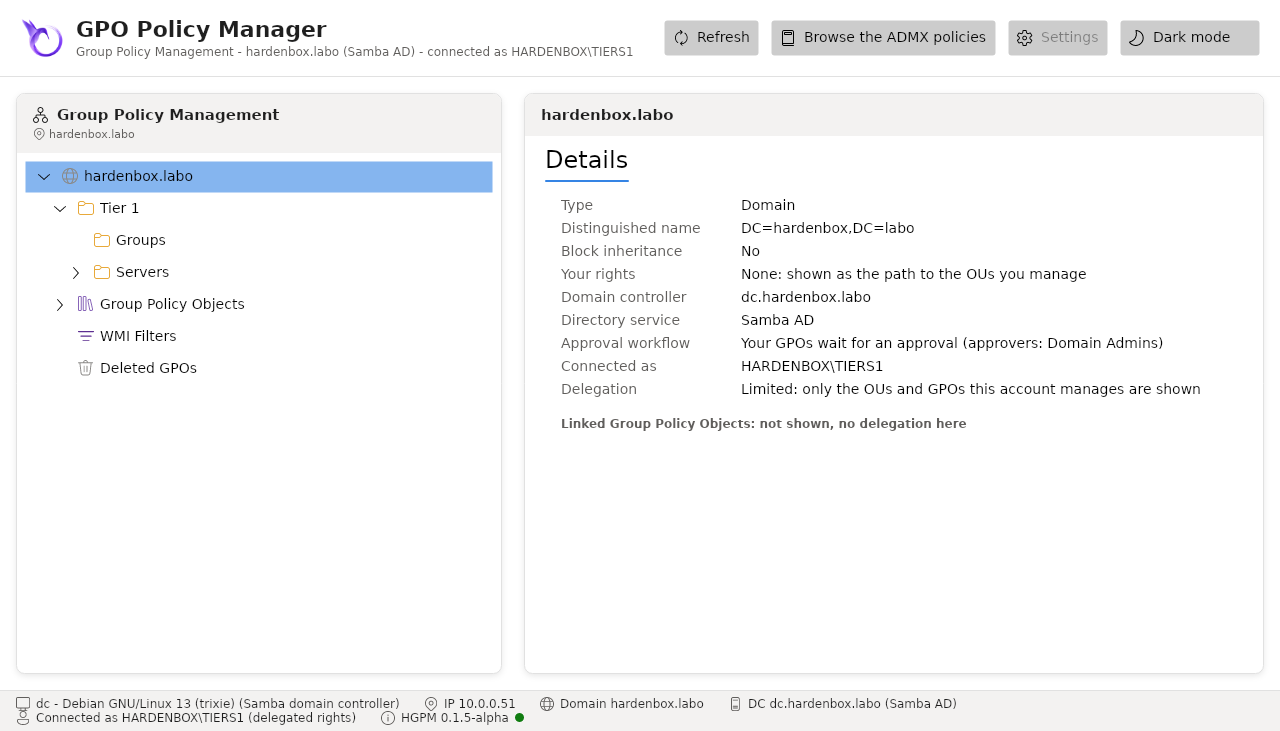
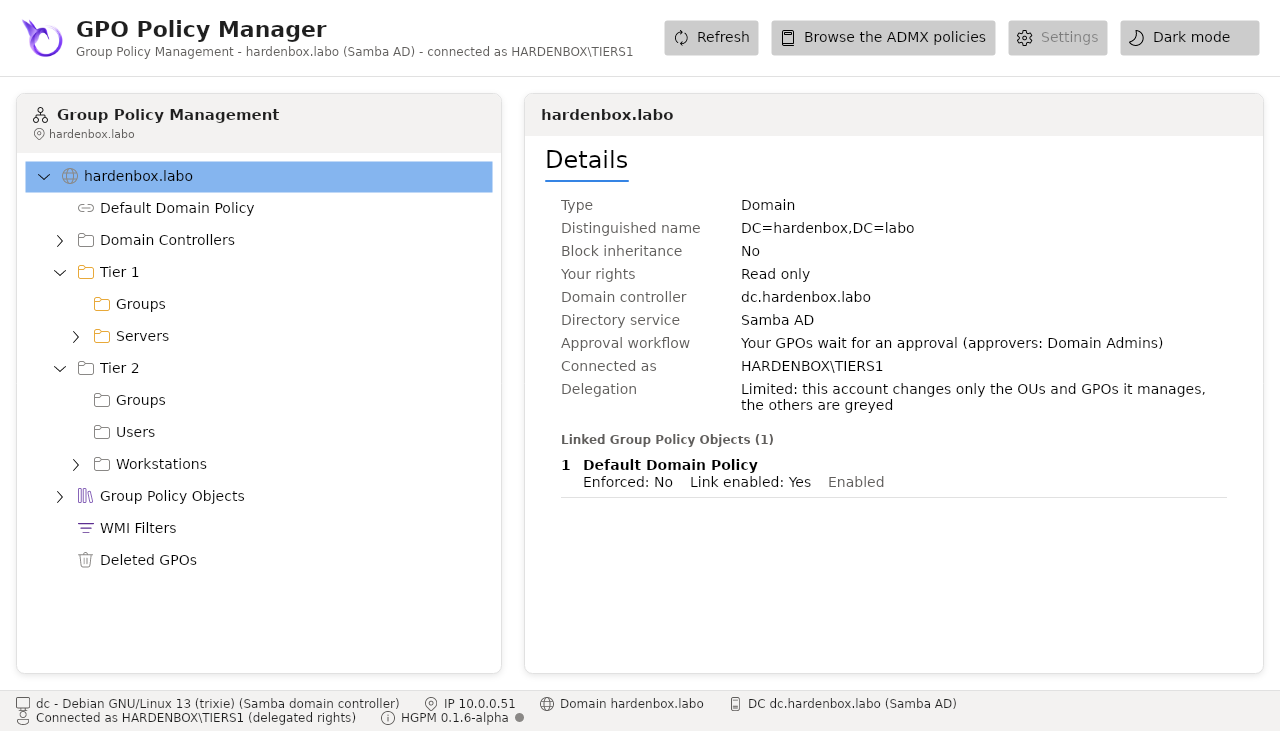
Every account sees the whole domain in the GPO console, as GPMC: what it does not manage is greyed and offers no action
An account without any delegation reads the domain: Delegation: None in the details, (read only)
in the status bar. The WMI filter actions follow the rights of the domain
(allowedChildClassesEffective of CN=SOM,CN=WMIPolicy,CN=System, allowedAttributesEffective of
each filter), and the status of a GPO the account does not edit is refused before asking the
domain. Checked on the Samba lab with a user of Domain Users and with TIERS1.

diff --git a/docs/fr/features/delegation.md b/docs/fr/features/delegation.md
@@ -1,8 +1,8 @@
 # Délégation : ce que le compte gère
 
-La console montre à chaque technicien ce qu'il gère, d'après les **délégations du domaine** et le
-ticket Kerberos qu'il utilise : un contrôle d'accès par rôle bâti sur les droits qui existent déjà,
-sans rien à configurer dans la console.
+Chaque compte voit tout le domaine, comme dans GPMC ; la console ne propose à chacun que ce qu'il
+gère, d'après les **délégations du domaine** et le ticket Kerberos qu'il utilise : un contrôle
+d'accès par rôle bâti sur les droits qui existent déjà, sans rien à configurer dans la console.
 
 ## Comment les droits sont lus
 
@@ -10,9 +10,11 @@ L'annuaire les calcule pour le compte connecté :
 
 | Droit | Lu dans | Donne |
 |---|---|---|
-| Lier des GPO à un domaine ou une OU | `allowedAttributesEffective` du domaine / de l'OU contient `gPLink` | l'OU est montrée avec ses liens ; créer et lier, lier, supprimer un lien |
-| Modifier une GPO | `allowedAttributesEffective` de son conteneur contient `versionNumber` | Edit, Apply, restaurer, supprimer |
+| Lier des GPO à un domaine ou une OU | `allowedAttributesEffective` du domaine / de l'OU contient `gPLink` | l'OU n'est pas grisée ; créer et lier, lier, supprimer un lien, bloquer l'héritage |
+| Modifier une GPO | `allowedAttributesEffective` de son conteneur contient `versionNumber` | la GPO n'est pas grisée ; Edit, Apply, restaurer, supprimer |
 | Créer des GPO | `allowedChildClassesEffective` de `CN=Policies` contient `groupPolicyContainer` | New GPO |
+| Créer des filtres WMI | `allowedChildClassesEffective` de `CN=SOM,CN=WMIPolicy,CN=System` contient `msWMI-Som` | Nouveau filtre WMI |
+| Modifier un filtre WMI | `allowedAttributesEffective` du filtre contient `msWMI-Parm2` | Modifier le filtre WMI, Supprimer le filtre WMI |
 
 Le compte est celui que l'annuaire répond à « Who am I? » (RFC 4532) : la console le montre dans
 son titre, les détails du domaine et la barre d'état.
@@ -21,12 +23,13 @@ son titre, les détails du domaine et la barre d'état.
 
 ![La console du technicien Tier 1](../assets/screenshots/14-tier1-view.fr.png)
 
-- les OU où il lie des GPO, et **leurs parents grisés** comme chemin d'accès, sans leurs liens ;
-- les GPO qu'il modifie, ou qui sont liées à ses OU ;
+- toutes les OU, tous les liens et toutes les GPO du domaine, comme GPMC les montre ;
+- les OU où il lie des GPO et les GPO qu'il modifie comme d'habitude, **les autres grisées** : il les
+  lit (détails, liens, paramètres, délégation, historique) et n'y change rien ;
 - seulement les actions qu'il peut faire, dans le menu contextuel.
 
 Les détails du domaine disent si la délégation est **complète** (le compte gère toutes les OU et
-GPO) ou **limitée**.
+GPO), **limitée** ou **aucune**.
 
 ```bash
 # La même console, avec le technicien Tier 1
@@ -38,6 +41,15 @@ pwsh -c 'Show-GPOManagerAvalonia -Server dc.hardenbox.labo'
     `kinit` remplace le ticket du cache par défaut. Pour garder celui du Tier 0 dans un autre
     terminal, donnez à chaque terminal son propre cache : `export KRB5CCNAME=FILE:/tmp/krb5cc_tier1`
     avant `kinit`.
+
+## Un compte sans délégation
+
+Un compte à qui le domaine ne donne aucune délégation, un utilisateur de Domain Users par exemple,
+lit tout le domaine : tout est grisé, les menus contextuels ne proposent rien, **Paramètres** est
+grisé, et la barre d'état dit **(lecture seule)**. Les détails du domaine disent
+**Délégation : Aucune**.
+
+![La console d'un compte sans délégation](../assets/screenshots/42-read-only-view.fr.png)
 
 ## Les droits sont ceux du domaine
 

diff --git a/docs/en/features/delegation.md b/docs/en/features/delegation.md
@@ -1,8 +1,8 @@
 # Delegation: what the account manages
 
-The console shows each technician what it manages, from the **delegations of the domain** and
-the Kerberos ticket it uses: role-based access built on the permissions that already exist, with
-nothing to configure in the console.
+Every account sees the whole domain, as in GPMC; the console offers each one only what it
+manages, from the **delegations of the domain** and the Kerberos ticket it uses: role-based access
+built on the permissions that already exist, with nothing to configure in the console.
 
 ## How the rights are read
 
@@ -10,9 +10,11 @@ The directory computes them for the account connected:
 
 | Right | Read from | Gives |
 |---|---|---|
-| Link GPOs to a domain or an OU | `allowedAttributesEffective` of the domain / OU holds `gPLink` | the OU is shown with its links; create and link, link, delete a link |
-| Edit a GPO | `allowedAttributesEffective` of its container holds `versionNumber` | Edit, Apply, restore, delete |
+| Link GPOs to a domain or an OU | `allowedAttributesEffective` of the domain / OU holds `gPLink` | the OU is not greyed; create and link, link, delete a link, Block Inheritance |
+| Edit a GPO | `allowedAttributesEffective` of its container holds `versionNumber` | the GPO is not greyed; Edit, Apply, restore, delete |
 | Create GPOs | `allowedChildClassesEffective` of `CN=Policies` holds `groupPolicyContainer` | New GPO |
+| Create WMI filters | `allowedChildClassesEffective` of `CN=SOM,CN=WMIPolicy,CN=System` holds `msWMI-Som` | New WMI Filter |
+| Change a WMI filter | `allowedAttributesEffective` of the filter holds `msWMI-Parm2` | Edit WMI filter, Delete WMI filter |
 
 The account is the one the directory answers to "Who am I?" (RFC 4532): the console shows it in
 its title, the details of the domain and the status bar.
@@ -21,12 +23,13 @@ its title, the details of the domain and the status bar.
 
 ![The console of the Tier 1 technician](../assets/screenshots/14-tier1-view.png)
 
-- the OUs where it links GPOs, and **their parents greyed** as the path to them, without their links;
-- the GPOs it edits, or that are linked to its OUs;
+- every OU, link and GPO of the domain, as GPMC shows them;
+- the OUs where it links GPOs and the GPOs it edits as usual, **the others greyed**: it reads them
+  (details, links, settings, delegation, history) and changes nothing there;
 - only the actions it may take, in the context menu.
 
 The details of the domain say whether the delegation is **full** (the account manages every OU and
-GPO) or **limited**.
+GPO), **limited**, or **none**.
 
 ```bash
 # The same console, as the Tier 1 technician
@@ -37,6 +40,14 @@ pwsh -c 'Show-GPOManagerAvalonia -Server dc.hardenbox.labo'
 !!! note "Several tickets"
     `kinit` replaces the ticket of the default cache. To keep the Tier 0 one in another terminal,
     give each terminal its own cache: `export KRB5CCNAME=FILE:/tmp/krb5cc_tier1` before `kinit`.
+
+## An account without delegation
+
+An account the domain gives no delegation, a user of Domain Users for instance, reads the whole
+domain: everything is greyed, the context menus offer nothing, **Settings** is greyed, and the
+status bar says **(read only)**. The details of the domain say **Delegation: None**.
+
+![The console of an account without delegation](../assets/screenshots/42-read-only-view.png)
 
 ## The rights are those of the domain
 

diff --git a/CHANGELOG.md b/CHANGELOG.md
@@ -1,5 +1,15 @@
 # HGPM Release History
 
+## Unreleased
+
+### Changed
+
+* The GPO console shows every account the whole domain, as GPMC: every OU, link and GPO. What the account does not manage (its delegations) is greyed and offers no action; it reads it. An account without any delegation reads the domain: the details say Delegation: None, the status bar (read only)
+
+### Fixed
+
+* New WMI Filter, Edit WMI filter and Delete WMI filter are offered only to an account the domain allows to (allowedChildClassesEffective of CN=SOM,CN=WMIPolicy,CN=System, allowedAttributesEffective of the filter); the commands refuse the others
+
 ## 0.1.6 - alpha
 
 ### Added

diff --git a/docs/en/workflows/approval.md b/docs/en/workflows/approval.md
@@ -79,8 +79,8 @@ Run the check again after `samba-tool ntacl sysvolreset`, which gives SYSVOL its
 
 ## 3. Create a GPO (Tier 1)
 
-The technician sees only its OUs ([delegation](../features/delegation.md)), and the details of the
-domain say that its GPOs wait for an approval:
+The technician manages only its OUs, the others are greyed ([delegation](../features/delegation.md)),
+and the details of the domain say that its GPOs wait for an approval:
 
 ![The console of a Tier 1 technician](../assets/screenshots/14-tier1-view.png)
 

diff --git a/docs/en/index.md b/docs/en/index.md
@@ -30,7 +30,7 @@ Linux**, and manages the GPOs of **Samba AD** and **Windows Active Directory** d
 
 - **Rights of the domain**
 
-    The console shows what the account manages (its delegations), the configuration is the one of
+    The console offers what the account manages (its delegations) and shows the rest read only, the configuration is the one of
     the domain (SYSVOL), and the workflow relies on the ACLs of the directory and of SYSVOL only.
     [Delegation](features/delegation.md)
 

diff --git a/docs/fr/workflows/approval.md b/docs/fr/workflows/approval.md
@@ -80,8 +80,8 @@ SYSVOL.
 
 ## 3. Créer une GPO (Tier 1)
 
-Le technicien ne voit que ses OU ([délégation](../features/delegation.md)), et les détails du
-domaine disent que ses GPO attendent une approbation :
+Le technicien ne gère que ses OU, les autres sont grisées ([délégation](../features/delegation.md)),
+et les détails du domaine disent que ses GPO attendent une approbation :
 
 ![La console d'un technicien Tier 1](../assets/screenshots/14-tier1-view.fr.png)
 

diff --git a/docs/fr/index.md b/docs/fr/index.md
@@ -32,7 +32,7 @@ Directory**.
 
 - **Les droits du domaine**
 
-    La console montre ce que le compte gère (ses délégations), la configuration est celle du
+    La console propose ce que le compte gère (ses délégations) et montre le reste en lecture, la configuration est celle du
     domaine (SYSVOL), et le workflow ne repose que sur les ACL de l'annuaire et de SYSVOL.
     [Délégation](features/delegation.md)
 
